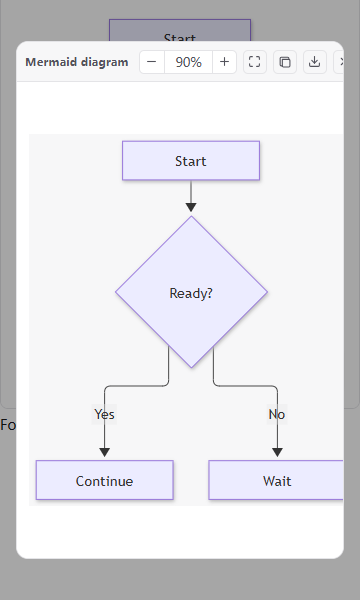
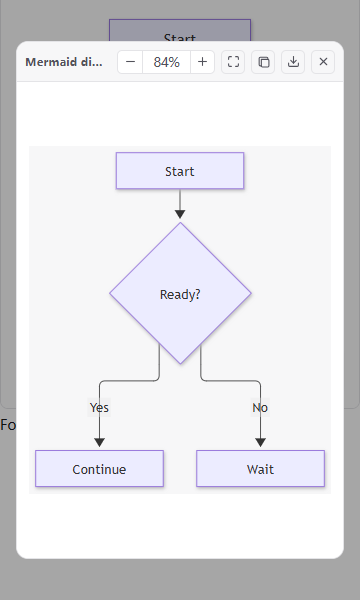
fix: contain Mermaid toolbar and canvas on narrow viewports
Use a minmax(0, 1fr) dialog grid track and allow the toolbar to shrink. Strengthen browser geometry checks to include every toolbar button and the viewport inside the dialog, and refresh verified screenshots. Real browser regression, lint, typecheck and release hygiene pass on Windows/Node 24.5.0.

diff --git a/app/globals.css b/app/globals.css
@@ -4624,11 +4624,13 @@ pre, code {
 }
 .mermaid-zoom-layout {
   display: grid;
+  grid-template-columns: minmax(0, 1fr);
   grid-template-rows: auto minmax(0, 1fr);
   height: 100%;
 }
 .mermaid-zoom-toolbar {
   display: flex;
+  min-width: 0;
   align-items: center;
   gap: 10px;
   min-height: 40px;

diff --git a/CHANGELOG.md b/CHANGELOG.md
@@ -6,7 +6,7 @@ All notable changes to Piora are documented here. The project follows [Semantic 
 
 ### 修复
 
-- 修复切回含 Mermaid 图形的会话或虚拟列表回收后，重复渲染造成的高度跳动；打开图形预览时保留聊天原图及滚动位置。预览面板按可用视口和图形比例适配，支持缩放、拖动与窗口调整，小图不再默认放大到全屏。
+- 修复切回含 Mermaid 图形的会话或虚拟列表回收后，重复渲染造成的高度跳动；打开图形预览时保留聊天原图及滚动位置。预览面板按可用视口和图形比例适配，支持缩放、拖动与窗口调整，小图不再默认放大到全屏；窄窗口完整显示图形及工具栏按钮。
 
 ## [0.5.5-beta.41] - 2026-10-26
 
